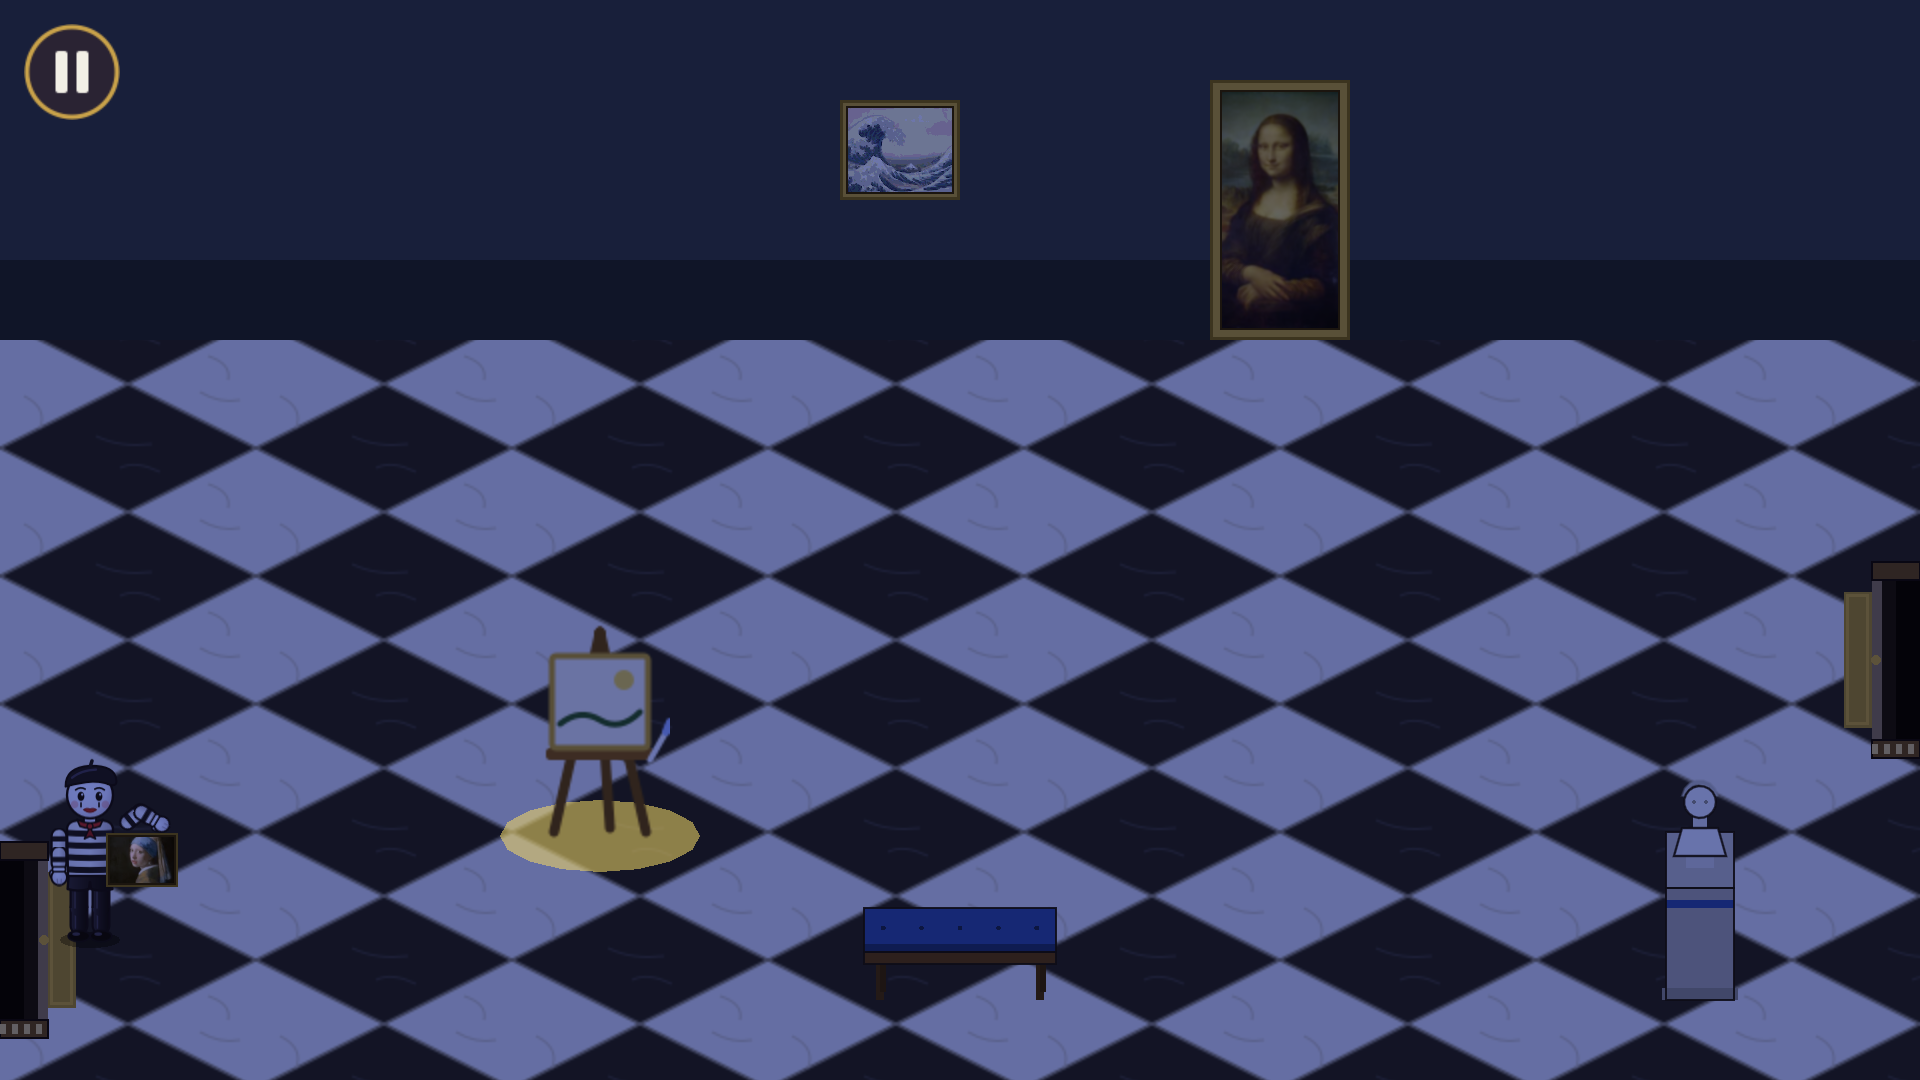
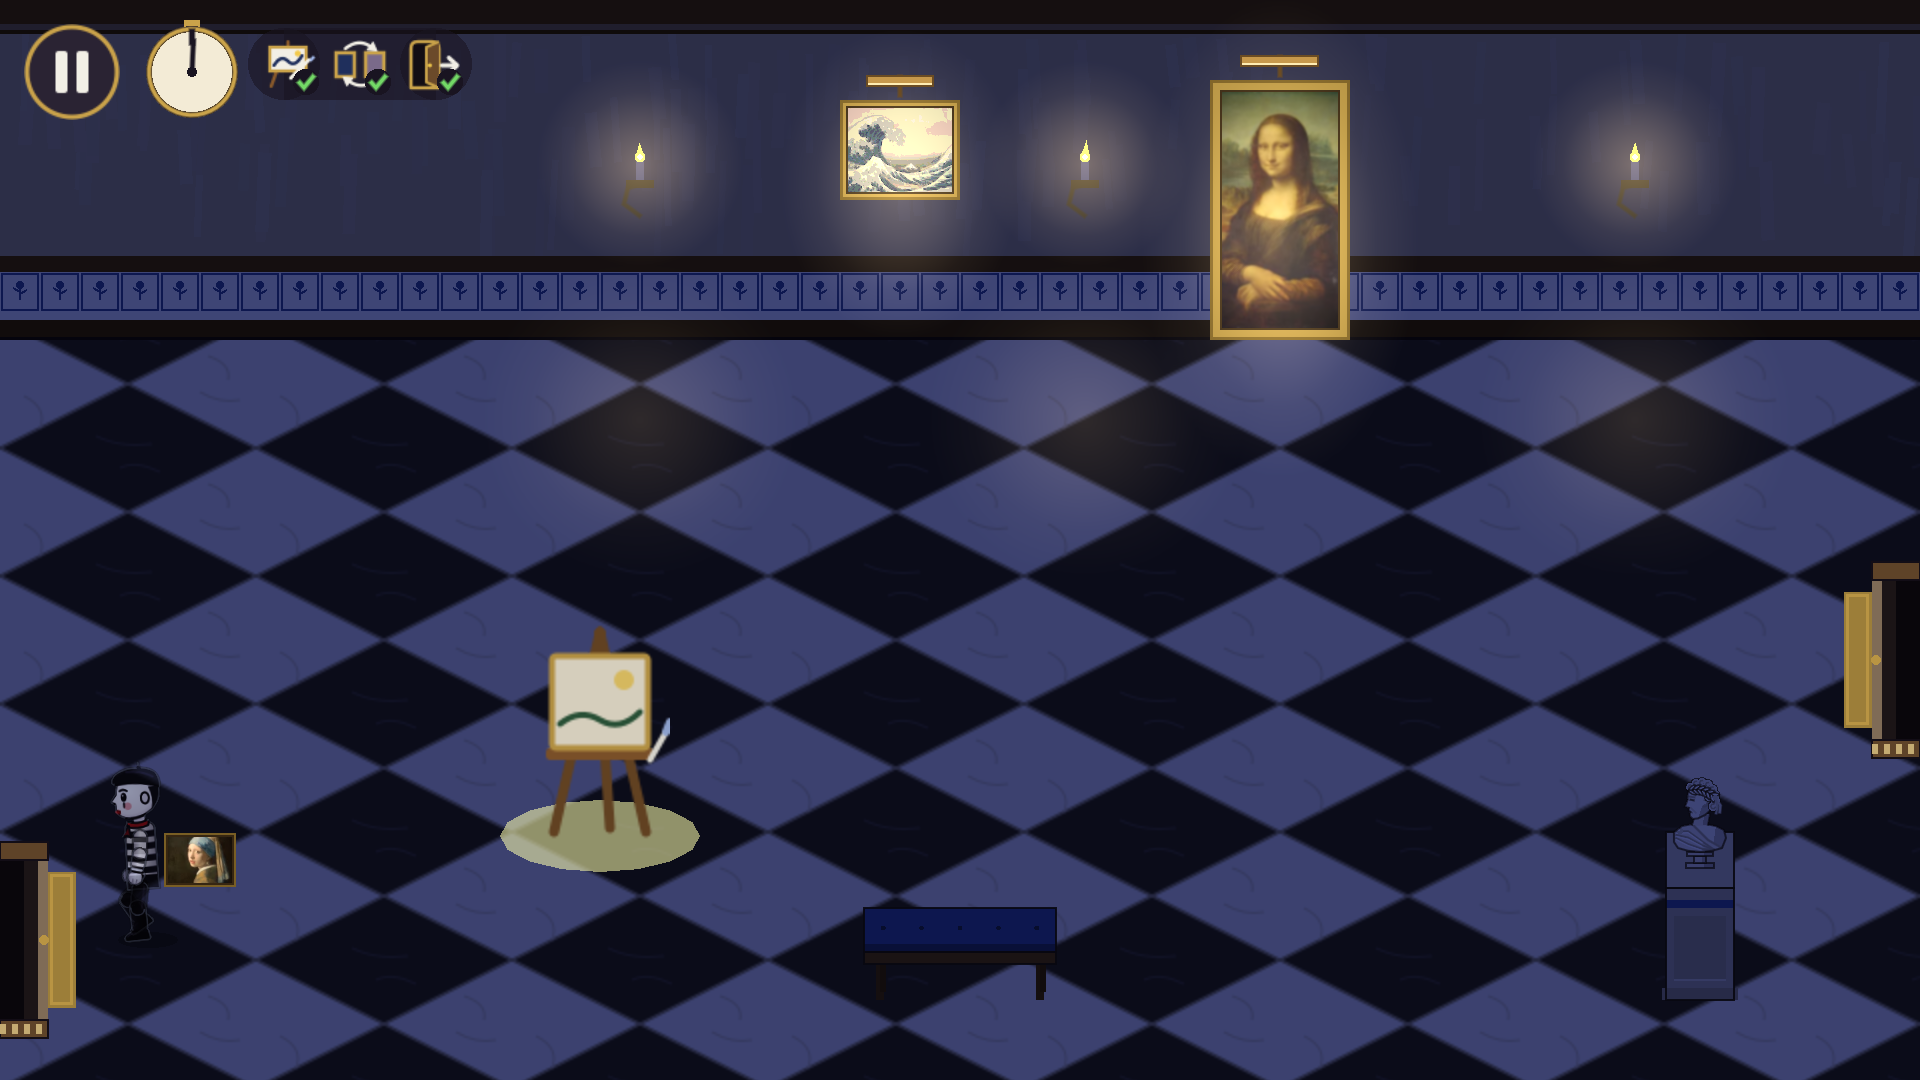
docs(submission): retake the screenshots and cover from the depth-pass build
All 13 screenshots recaptured (HUD, night lighting, dressed walls, the new
layouts and brush-down icon); escape, results and unlock restaged from the
game's own escape and unlock code. The cover is the finale: the mime with the
Mona Lisa past lantern-lit guards. Page text: 118 tests, 32.5 s demo.

Claude-Session: https://claude.ai/code/session_01LnW7A8GppA7riq12AojToP

diff --git a/SUBMISSION.md b/SUBMISSION.md
@@ -14,7 +14,7 @@ Everything between the two rules below is the public page; paste it as is.
 - **Classification:** Game. Genre: Puzzle. Tags: stealth, heist, art, museum, painting, mime, no-text, mobile, touch, godot.
 - **Cover image:** `submission/cover.png` (630 x 500).
 - **Screenshots:** `submission/1-title.png` to `submission/13-sketch.png`, in that order (1920 x 1080, landscape).
-- **Trailer / gameplay video:** `build/afterhours_demo.mp4` (27.8 s; itch takes a YouTube or Vimeo link, so upload it there first, or attach it to the jam post).
+- **Trailer / gameplay video:** `build/afterhours_demo.mp4` (32.5 s; itch takes a YouTube or Vimeo link, so upload it there first, or attach it to the jam post).
 - **Jam:** submit the page to the jam; it uses the optional theme "Great Works of Art" and the mandatory restriction "No Text".
 
 ---
@@ -76,7 +76,7 @@ After Hours was made with Claude (Anthropic), used through Claude Code, and the 
 - **Voices:** Claude wrote the guards' lines and described two voices (a weary watchman and a jumpy rookie); OmniVoice designed the voices from those descriptions (no cloned voices) and rendered the 32 lines. A script checks each line by transcribing it back with VoiceStudio's built-in speech recogniser, retrying any take that doesn't say its text.
 - **Level design with a playtest bot:** Claude designed each wing from a written brief, and a bot plays it through simulated touches like a player would, painting included. When it can't get through unseen, the log shows who spotted it where; the layout is fixed and the bot runs again. The bot also proves every room's trick is needed: it replays the run without the trick, waiting any time from 0 to 16 seconds, and the run must get the mime seen or caught. Every wing is proven beatable with all three stars, its sketch reachable, and the bot's runs become the ghost-mime tutorial and the hideout replays.
 - **Guard AI (no language model):** a utility-scoring brain picks each guard's intent (patrol, investigate, straighten, inspect, search, chase) from what it sees and hears. It's deterministic and runs offline.
-- **Quality:** 114 automated gameplay tests (about 1,960 checks), the playtest bot on every wing, a project checker that enforces the No Text rule, touch-first input and the no-flashing rule (with 18 test projects proving each check fires), and browser tests of the web build on desktop and an emulated phone. The cover, screenshots and gameplay video were captured from the real game by scripts.
+- **Quality:** 118 automated gameplay tests (about 2,080 checks), the playtest bot on every wing, a project checker that enforces the No Text rule, touch-first input and the no-flashing rule (with 18 test projects proving each check fires), and browser tests of the web build on desktop and an emulated phone. The cover, screenshots and gameplay video were captured from the real game by scripts.
 
 ## Content
 
